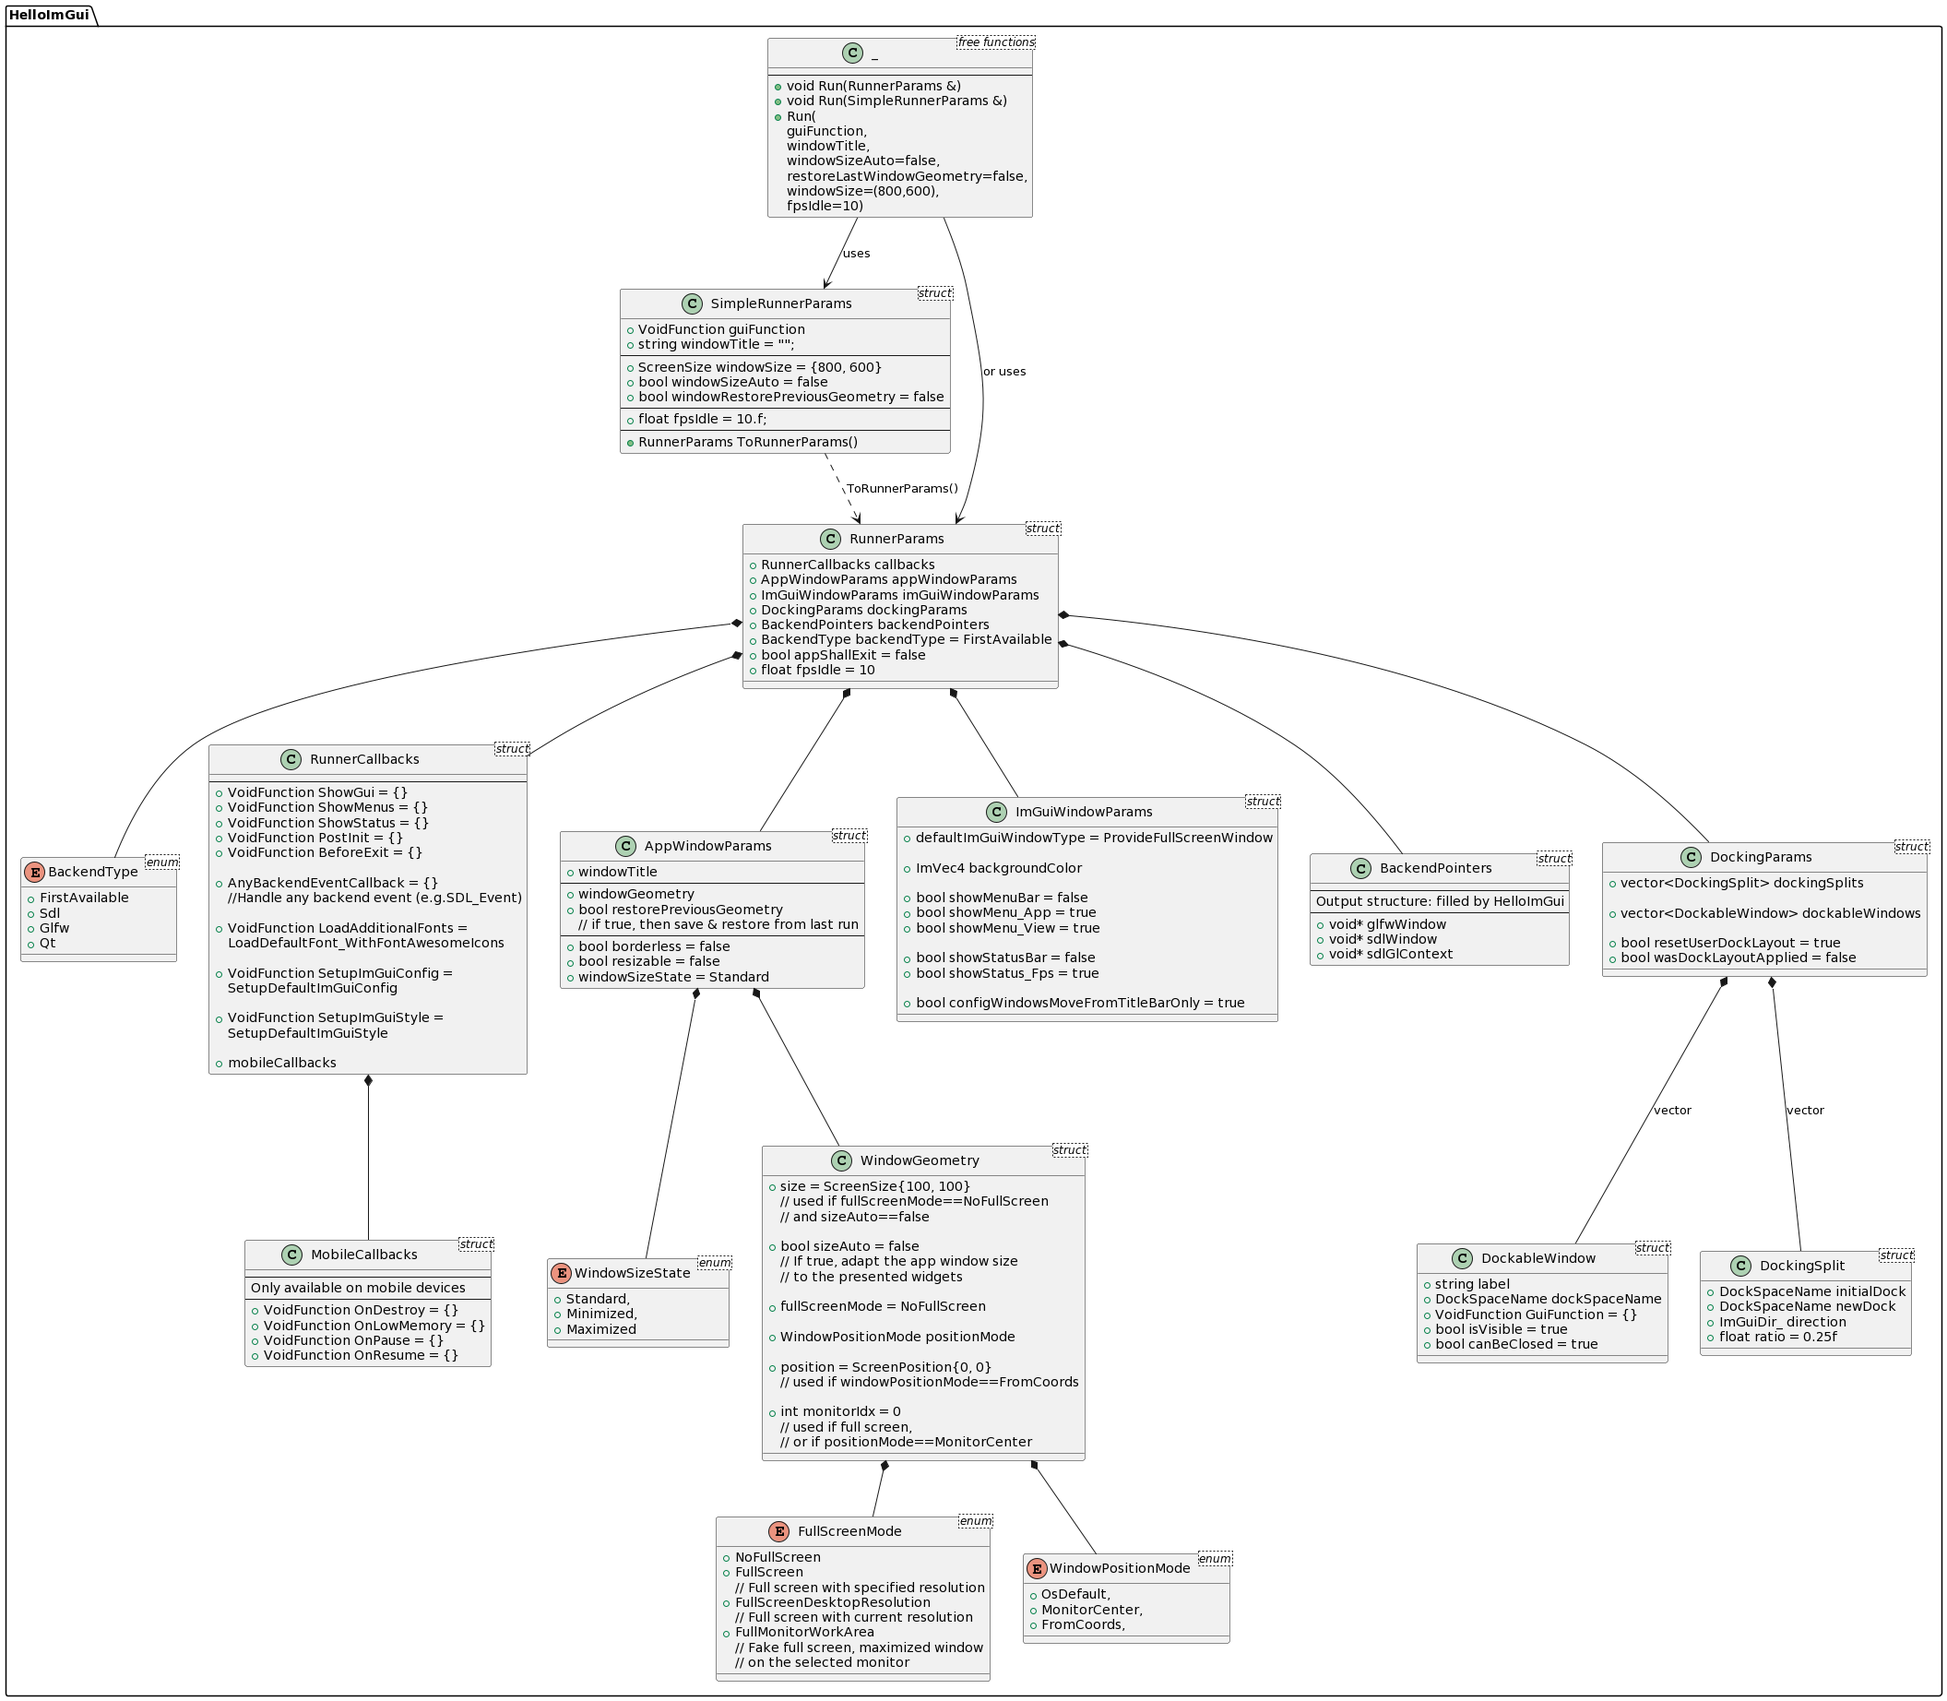
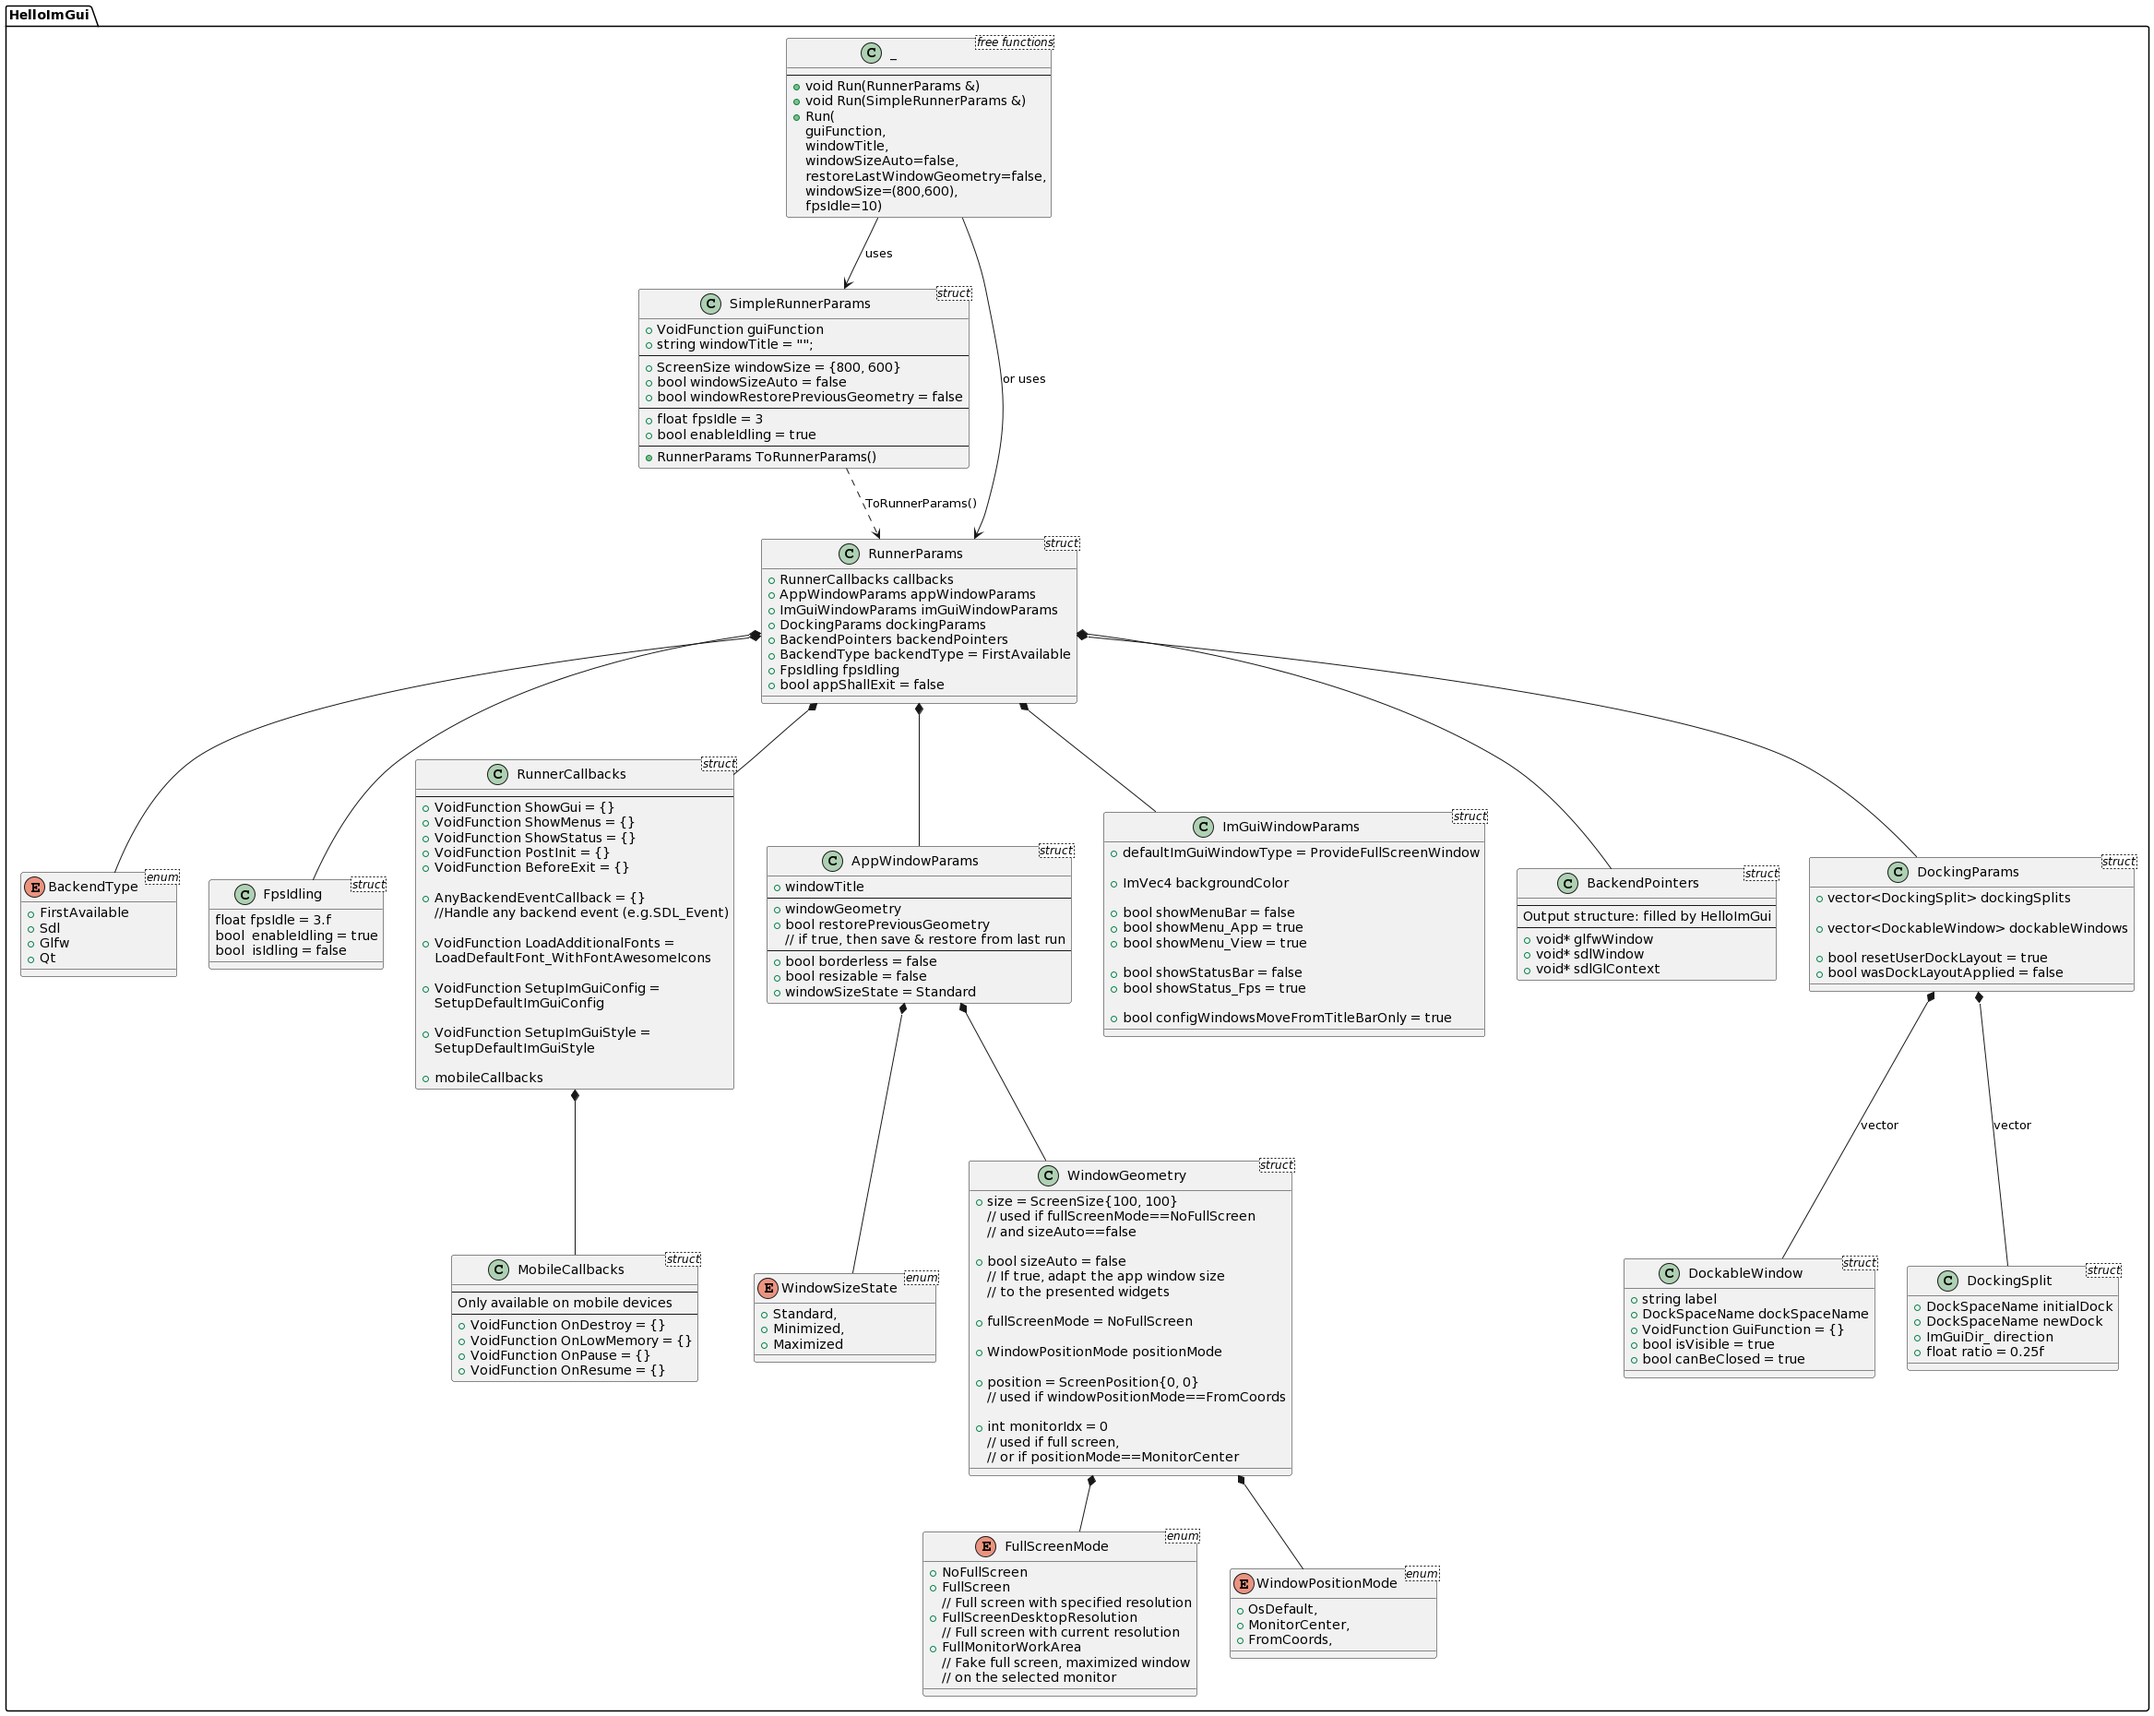
Add FpsIdling params

diff --git a/src/hello_imgui/runner_params.h b/src/hello_imgui/runner_params.h
@@ -18,6 +18,30 @@ enum class BackendType
 };
 
 /**
+ @@md#FpsIdling
+
+**FpsIdling** is a struct that contains Fps Idling parameters
+
+* `fpsIdle`: _float, default=10_.
+  ImGui applications can consume a lot of CPU, since they update the screen very frequently.
+  In order to reduce the CPU usage, the FPS is reduced when no user interaction is detected.
+  This is ok most of the time but if you are displaying animated widgets (for example a live video),
+  you may want to ask for a faster refresh: either increase fpsIdle, or set it to 0 for maximum refresh speed
+  (you can change this value during the execution depending on your application refresh needs)
+* `enableIdling`: _bool, default=true_.
+  Set this to false to disable idling (this can be changed dynamically during execution)
+* `isIdling`: bool (dynamically updated during execution)
+  This bool will be updated during the application execution, and will be set to true when it is idling.
+@@md
+*/
+struct FpsIdling
+{
+    float fpsIdle = 3.f;
+    bool  enableIdling = true;
+    bool  isIdling = false;
+};
+
+/**
  @@md#RunnerParams
 
 **RunnerParams** is a struct that contains all the settings and callbacks needed to run an application.
@@ -41,14 +65,7 @@ enum class BackendType
    Will be set to true by the app when exiting.
    _Note: 'appShallExit' has no effect on Mobile Devices (iOS, Android) and under emscripten, since these apps
    shall not exit._
-* `fpsIdle`: _float, default=10_.
-  ImGui applications can consume a lot of CPU, since they update the screen very frequently.
-  In order to reduce the CPU usage, the FPS is reduced when no user interaction is detected.
-  This is ok most of the time but if you are displaying animated widgets (for example a live video),
-  you may want to ask for a faster refresh: either increase fpsIdle, or set it to 0 for maximum refresh speed
-  (you can change this value during the execution depending on your application refresh needs)
-* `isIdling`: bool (dynamically updated during execution)
-  This bool will be updated during the application execution, and will be set to true when it is idling.
+* `fpsIdling`: _FpsIdling_. Idling parameters (set fpsIdling.enableIdling to false to disable Idling)
 * `emscripten_fps`: _int, default = 0_.
   Set the application refresh rate (only used on emscripten: 0 stands for "let the app or the browser decide")
 @@md
@@ -61,11 +78,9 @@ struct RunnerParams
     DockingParams dockingParams;
     BackendPointers backendPointers;
     BackendType backendType = BackendType::FirstAvailable;
+    FpsIdling fpsIdling;
+
     bool appShallExit = false;
-
-    float fpsIdle = 10.f;
-    bool  isIdling = false;
-
     int emscripten_fps = 0;
 };
 
@@ -86,7 +101,7 @@ struct RunnerParams
    If true, restore the size and position of the window between runs.
 * `windowSize`: _ScreenSize, default={800, 600}_.
    Size of the window
-* `fpsIdle`: _float, default=10_.
+* `fpsIdle`: _float, default=3_.
    FPS of the application when idle (set to 0 for full speed).
 
 For example, this is sufficient to run an application:
@@ -115,7 +130,8 @@ struct SimpleRunnerParams
     bool windowRestorePreviousGeometry = false;
     ScreenSize windowSize = DefaultWindowSize;
 
-    float fpsIdle = 10.f;
+    float fpsIdle = 3.f;
+    bool  enableIdling = true;
 
     RunnerParams ToRunnerParams() const;
 };

diff --git a/src/hello_imgui/internal/menu_statusbar.cpp b/src/hello_imgui/internal/menu_statusbar.cpp
@@ -58,7 +58,7 @@ void ShowMenu(RunnerParams & runnerParams)
 }
 
 
-void ShowStatusBar(const RunnerParams & params)
+void ShowStatusBar(RunnerParams & params)
 {
     float statusWindowHeight = ImGui::GetFrameHeight() * 1.4f;
     ImGuiViewport* viewport = ImGui::GetMainViewport();
@@ -74,8 +74,16 @@ void ShowStatusBar(const RunnerParams & params)
 
     if (params.imGuiWindowParams.showStatus_Fps)
     {
-        ImGui::SameLine(ImGui::GetIO().DisplaySize.x - 7.f * ImGui::GetFontSize());
-        const char* idlingInfo = params.isIdling ? " (Idling)" : "";
+        float dy = ImGui::GetFontSize() * 0.15f;
+
+        ImGui::SameLine(ImGui::GetIO().DisplaySize.x - 14.f * ImGui::GetFontSize());
+
+        const char* idlingInfo = params.fpsIdling.isIdling ? " (Idling)" : "";
+
+        ImGui::SetCursorPosY(ImGui::GetCursorPosY() - dy); // The checkbox seems visually misaligned, let's fix this
+        ImGui::Checkbox("Enable idling", &params.fpsIdling.enableIdling);
+        ImGui::SameLine();
+        ImGui::SetCursorPosY(ImGui::GetCursorPosY() - dy);
         ImGui::Text("FPS: %.1f%s", HelloImGui::FrameRate(), idlingInfo);
     }
 

diff --git a/src/hello_imgui/internal/backend_impls/abstract_runner.cpp b/src/hello_imgui/internal/backend_impls/abstract_runner.cpp
@@ -313,19 +313,19 @@ void AbstractRunner::RenderGui(int idxFrame)
 
 void AbstractRunner::CreateFramesAndRender(int idxFrame)
 {
-    assert(params.fpsIdle >= 0.f);
+    assert(params.fpsIdling.fpsIdle >= 0.f);
 
-    params.isIdling = false;
-    if (params.fpsIdle > 0.f)
+    params.fpsIdling.isIdling = false;
+    if ((params.fpsIdling.fpsIdle > 0.f) && params.fpsIdling.enableIdling)
     {
         double beforeWait = ClockSeconds();
-        double waitTimeout = 1. / (double) params.fpsIdle;
+        double waitTimeout = 1. / (double) params.fpsIdling.fpsIdle;
         mBackendWindowHelper->WaitForEventTimeout(waitTimeout);
 
         double afterWait = ClockSeconds();
         double waitDuration = (afterWait - beforeWait);
-        double waitIdleExpected = 1. / params.fpsIdle;
-        params.isIdling = (waitDuration > waitIdleExpected * 0.9);
+        double waitIdleExpected = 1. / params.fpsIdling.fpsIdle;
+        params.fpsIdling.isIdling = (waitDuration > waitIdleExpected * 0.9);
     }
 
     if (Impl_PollEvents())

diff --git a/src/hello_imgui/internal/docking_details.cpp b/src/hello_imgui/internal/docking_details.cpp
@@ -148,18 +148,9 @@ void ShowViewMenu(RunnerParams & runnerParams)
             if (ImGui::MenuItem("FPS in status bar##xxxx", nullptr, runnerParams.imGuiWindowParams.showStatus_Fps))
                 runnerParams.imGuiWindowParams.showStatus_Fps = ! runnerParams.imGuiWindowParams.showStatus_Fps;
 
-            bool idleActive = runnerParams.fpsIdle > 0.f;
-            if (ImGui::MenuItem("Reduce FPS when app is idle (inactive)", nullptr, idleActive))
-            {
-                idleActive = !idleActive;
-                if (idleActive)
-                    runnerParams.fpsIdle = 10.f;
-                else
-                    runnerParams.fpsIdle = 0.f;
-            }
+            ImGui::MenuItem("Enable Idling", nullptr, &runnerParams.fpsIdling.enableIdling);
             ImGui::EndMenu();
         }
-
 
         ImGui::EndMenu();
     }

diff --git a/src/hello_imgui/internal/menu_statusbar.h b/src/hello_imgui/internal/menu_statusbar.h
@@ -5,6 +5,6 @@ namespace HelloImGui
 namespace Menu_StatusBar
 {
     void ShowMenu(RunnerParams & runnerParams);
-    void ShowStatusBar(const RunnerParams & params);
+    void ShowStatusBar(RunnerParams & params);
 }  // namespace Menu_StatusBar
 }  // namespace HelloImGui

diff --git a/src/hello_imgui/runner_params.cpp b/src/hello_imgui/runner_params.cpp
@@ -15,7 +15,8 @@ namespace HelloImGui
 
         r.appWindowParams.windowTitle = self.windowTitle;
 
-        r.fpsIdle = self.fpsIdle;
+        r.fpsIdling.fpsIdle = self.fpsIdle;
+        r.fpsIdling.enableIdling = self.enableIdling;
 
         return r;
     }

diff --git a/src/hello_imgui/hello_imgui_api.md b/src/hello_imgui/hello_imgui_api.md
@@ -7,6 +7,7 @@
       * [RunnerParams](#runnerparams)
         * [Simple runner params](#simple-runner-params)
         * [Full params](#full-params)
+      * [Fps Idling](#fps-idling)
   * [Runner callbacks](#runner-callbacks)
       * [RunnerCallbacks](#runnercallbacks)
       * [MobileCallbacks](#mobilecallbacks)
@@ -80,7 +81,7 @@ The diagram below summarize all the possible settings and callbacks (which are e
    If true, restore the size and position of the window between runs.
 * `windowSize`: _ScreenSize, default={800, 600}_.
    Size of the window
-* `fpsIdle`: _float, default=10_.
+* `fpsIdle`: _float, default=3_.
    FPS of the application when idle (set to 0 for full speed).
 
 For example, this is sufficient to run an application:
@@ -122,16 +123,26 @@ int main(){
    Will be set to true by the app when exiting.
    _Note: 'appShallExit' has no effect on Mobile Devices (iOS, Android) and under emscripten, since these apps
    shall not exit._
+* `fpsIdling`: _FpsIdling_. Idling parameters (set fpsIdling.enableIdling to false to disable Idling)
+* `emscripten_fps`: _int, default = 0_.
+  Set the application refresh rate (only used on emscripten: 0 stands for "let the app or the browser decide")
+
+#### Fps Idling
+
+**FpsIdling** is a struct that contains Fps Idling parameters
+
 * `fpsIdle`: _float, default=10_.
   ImGui applications can consume a lot of CPU, since they update the screen very frequently.
   In order to reduce the CPU usage, the FPS is reduced when no user interaction is detected.
   This is ok most of the time but if you are displaying animated widgets (for example a live video),
   you may want to ask for a faster refresh: either increase fpsIdle, or set it to 0 for maximum refresh speed
   (you can change this value during the execution depending on your application refresh needs)
+* `enableIdling`: _bool, default=true_.
+  Set this to false to disable idling (this can be changed dynamically during execution)
 * `isIdling`: bool (dynamically updated during execution)
   This bool will be updated during the application execution, and will be set to true when it is idling.
-* `emscripten_fps`: _int, default = 0_.
-  Set the application refresh rate (only used on emscripten: 0 stands for "let the app or the browser decide")
+
+See [runner_params.h](runner_params.h).
 
 ----
 

diff --git a/src/hello_imgui/hello_imgui_api.src.md b/src/hello_imgui/hello_imgui_api.src.md
@@ -27,6 +27,11 @@ The diagram below summarize all the possible settings and callbacks (which are e
 ##### Full params
 @import "runner_params.h" {md_id=RunnerParams}
 
+#### Fps Idling
+@import "runner_params.h" {md_id=FpsIdling}
+
+See [runner_params.h](runner_params.h).
+
 ----
 
 ## Runner callbacks
